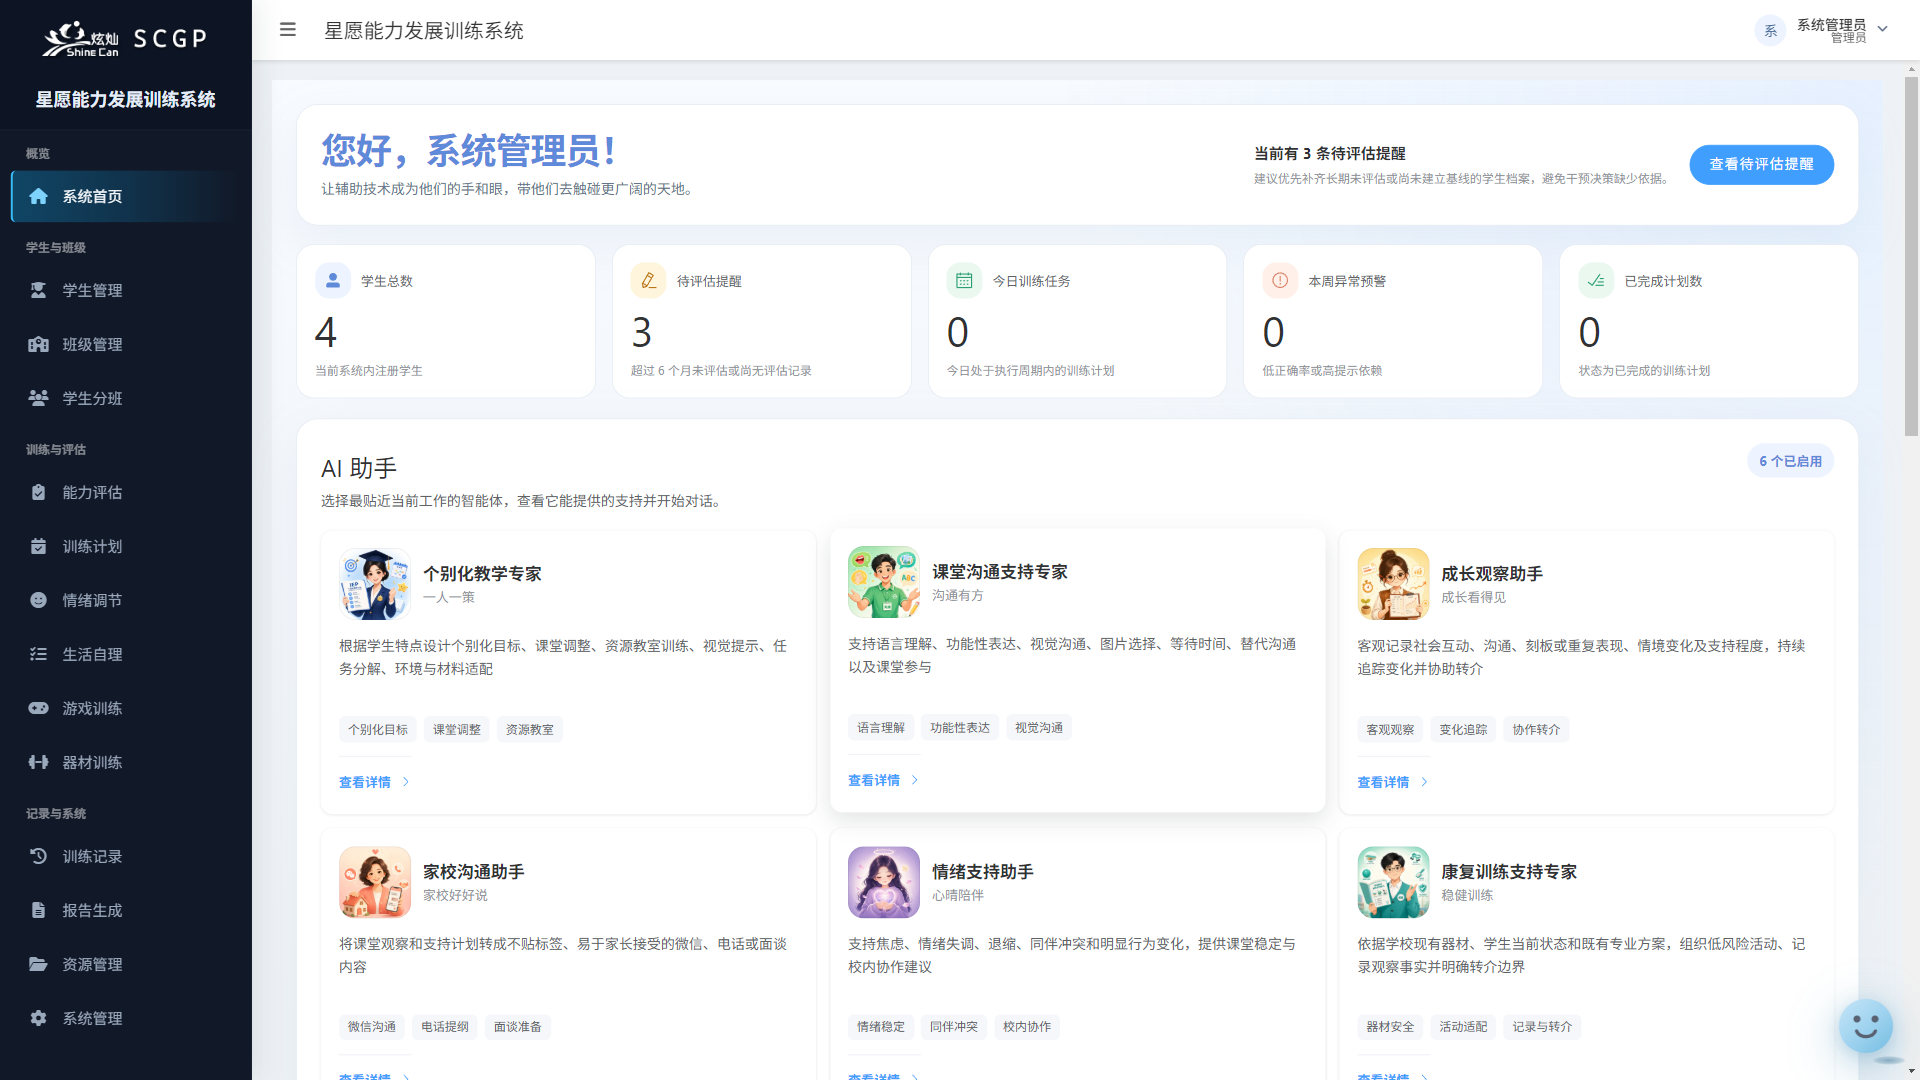
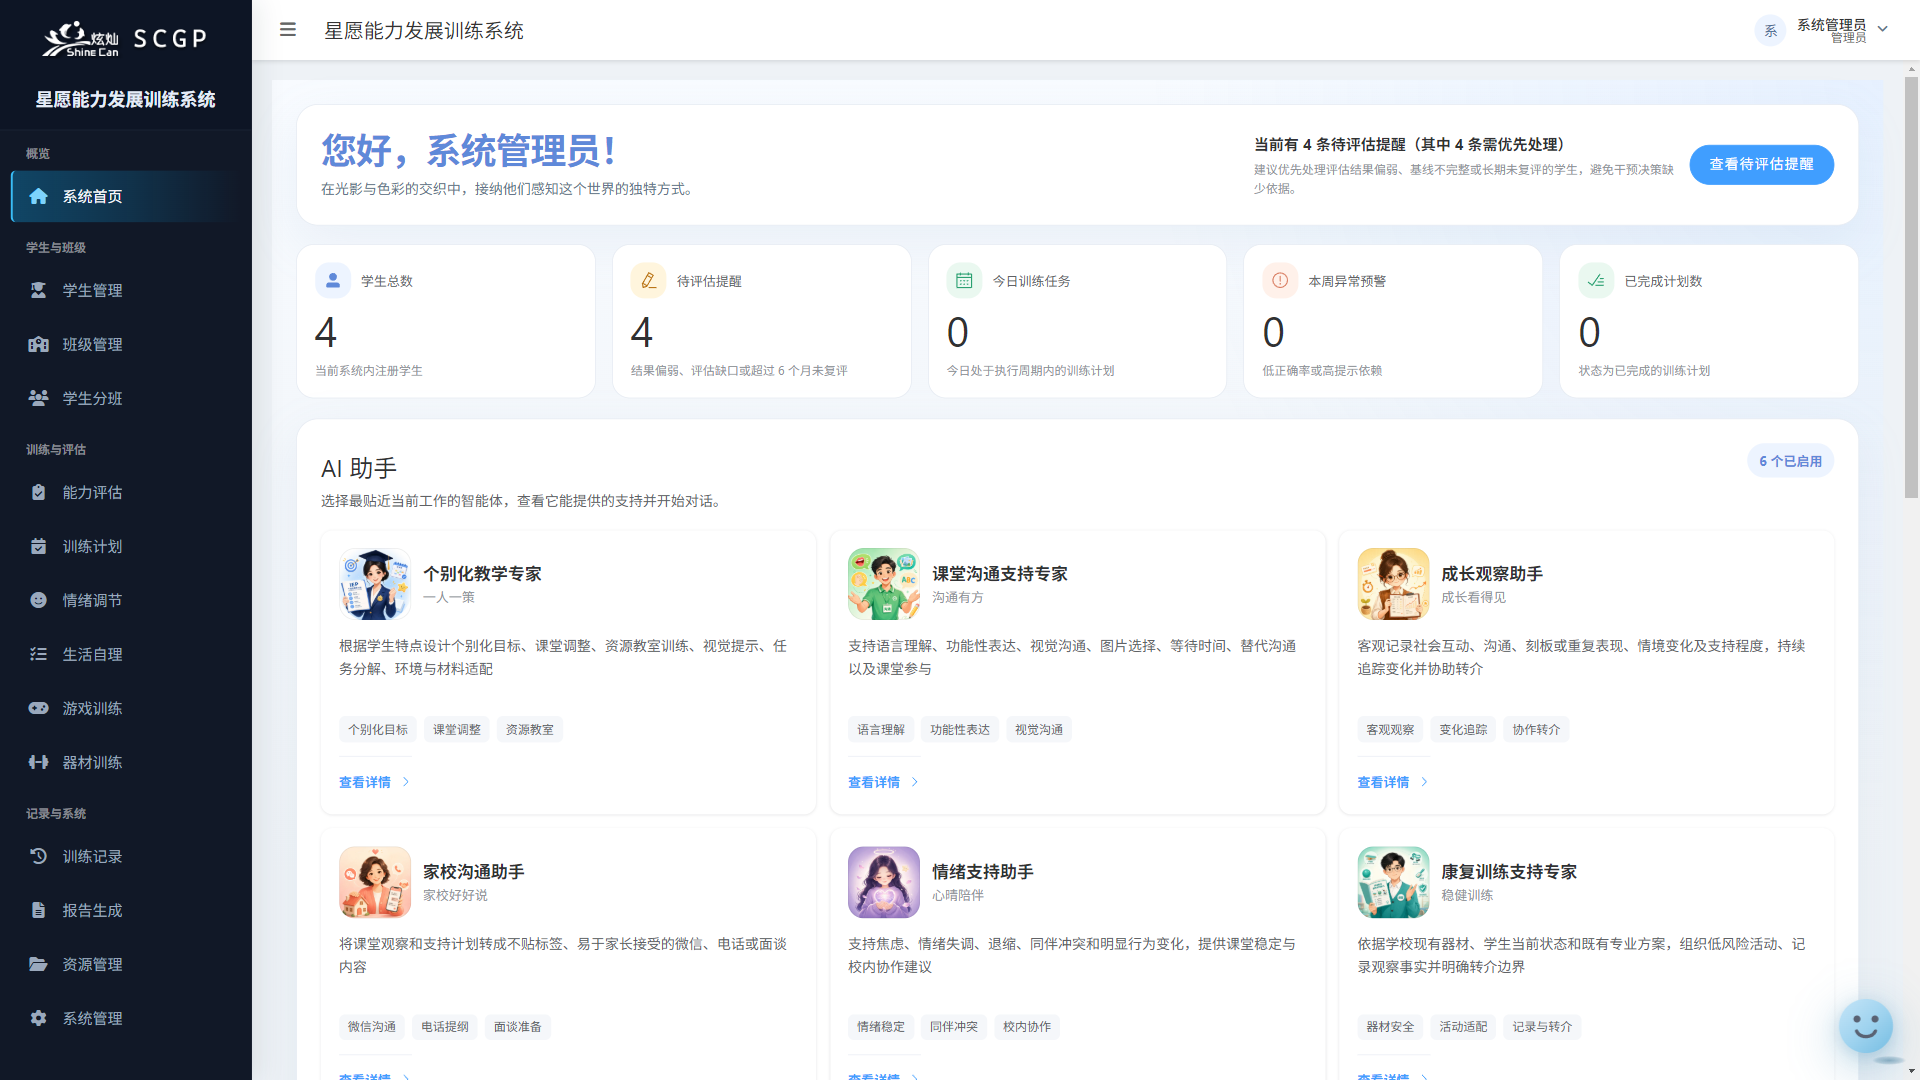
chore(manual): 首页族 S001/S002/S007 数据漂移重拍 + 手册 docx 生成禁区入档
- S001/S002（run dashboard-top-20260921）、S007（run dashboard-usermenu-20260921，浮层场景单独成批）三张重拍并更新 approvals：
  hero 与指标卡的待办数字刷新为当前数据（旧图「3 条待评估提醒」→ 现「4 条（其中 4 条需优先处理）」）
- 手册基线档 §1 记入「Word 成品不由工具链重新生成」：docx 封面/封底为用户手工编辑版本，生成链会覆盖，需先确认保护方式
- 手册基线档新增 §4.5 批次留痕（含 S007 单独成批的原因）

验证：verify-user-manual-approved-screenshots 217/217 逐条哈希校验通过；manual:screenshots:check 217 场景 0 pending；三张已目视核对

diff --git a/docs/user-manual/SCGP-用户手册截图采集与维护基线.md b/docs/user-manual/SCGP-用户手册截图采集与维护基线.md
@@ -7,7 +7,7 @@
 
 ## 1. 文档维护基线
 
-对外手册编写时主要核对了生产路由、侧边导航、角色元数据、评估量表目录、训练入口目录、资源中心、AI 智能体、系统管理和当前有效上下文。后续功能变化时，应优先重新核对当前代码，再更新手册 Markdown 并重新生成 Word；不要从历史《系统使用说明书》直接复制未验证内容。
+对外手册编写时主要核对了生产路由、侧边导航、角色元数据、评估量表目录、训练入口目录、资源中心、AI 智能体、系统管理和当前有效上下文。后续功能变化时，应优先重新核对当前代码，再更新手册 Markdown；不要从历史《系统使用说明书》直接复制未验证内容。**Word 成品不由工具链重新生成**——当前 docx 的封面/封底是用户手工编辑的版本（2026-09-21 确认），`generate-user-manual.mjs` 生成链会覆盖它们；需要刷新成品时先与用户确认保护方式，确认前只更新 Markdown 与截图。
 
 截图计划的唯一事实来源为 `scripts/manual/user-manual-screenshot-plan.mjs`（217 行，行序即编号序）。正文新增、删除或调整截图占位后，应先运行 `node scripts/manual/sync-user-manual-screenshot-plan.mjs` 同步编号，再生成 Word。
 
@@ -318,4 +318,17 @@
 
 - 采集：`node scripts/manual/capture-user-manual-screenshots.mjs --ids S008,S009,S010,S011 --run-id dashboard-board5-20260921 --allow-isolated-state` → 4 张全部成功（0 失败）。
 - 迭代留痕（同任务内共 5 轮）：`dashboard-board-20260921` / `dashboard-board2-20260921` 因 S011 断言失败（日程面板重构丢了契约类名 `schedule-panel`）作废——该断言在此暴露了真实回归；`dashboard-board3-20260921` 补类名后 4/4 通过；`dashboard-board4-20260921` 修「查看全部」按钮换行；`dashboard-board5-20260921` 去面板头部说明文字，为最终批准批次。
+- 复核：`verify-user-manual-approved-screenshots.mjs` = 217 条 approvals 逐条哈希校验通过；`manual:screenshots:check` = 217 场景 / 0 pending。
+
+### 4.5 2026-09-21 首页族数据漂移重拍（S001 / S002 / S007）
+
+首页族三张「顶部锚定整窗」截图（S001 管理员首页 / S002 教师首页 / S007 用户菜单浮层）画面不含看板下半部，但含 hero 与指标卡——其待办数字随演示数据与待办口径演进已与当前不符（旧图 hero 为「当前有 3 条待评估提醒」，当前数据为「4 条（其中 4 条需优先处理）」）。重拍 3 张：
+
+| run | 编号 | 说明 |
+|---|---|---|
+| `dashboard-top-20260921` | S001 / S002 | 管理员 / 教师首页顶部整窗 |
+| `dashboard-usermenu-20260921` | S007 | 「用户菜单浮层」场景：**单独成批**（同会话会把浮层残留在后续场景画面里，见 §4.2 先例） |
+
+- 采集：`--ids S001,S002 --run-id dashboard-top-20260921` 与 `--ids S007 --run-id dashboard-usermenu-20260921`（均 `--allow-isolated-state`），3 张全部成功。
+- 目视核对：S001 / S007 hero 已显示当前数字，S007 浮层完整未污染；S002 教师视图正确（无「系统管理」入口、scope 内 0 学生）。
 - 复核：`verify-user-manual-approved-screenshots.mjs` = 217 条 approvals 逐条哈希校验通过；`manual:screenshots:check` = 217 场景 / 0 pending。
